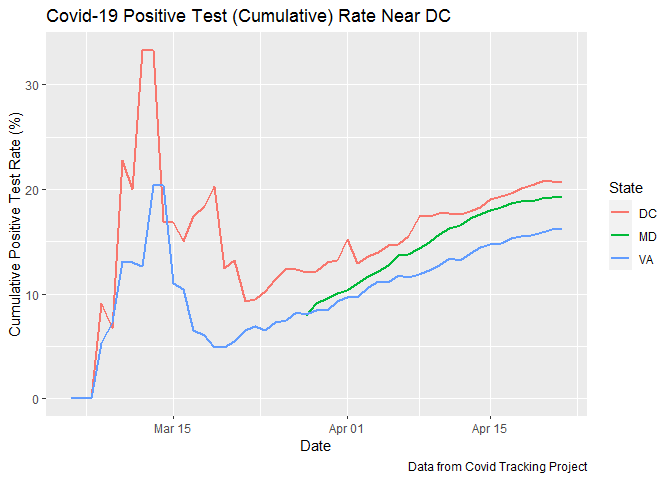
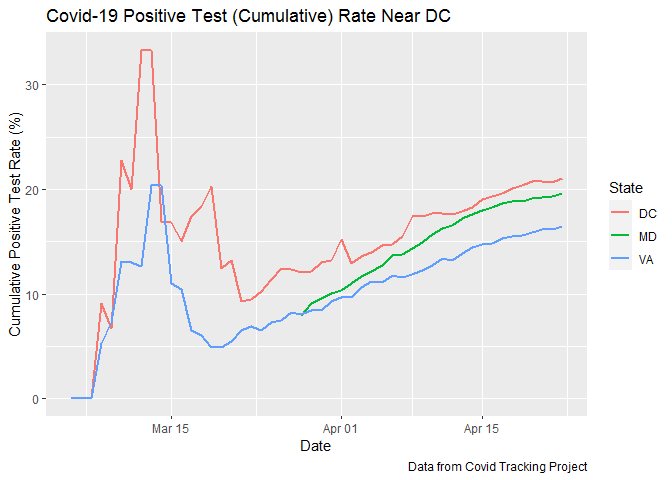
23 April evening data update

diff --git a/Markdown/Pos_Test_Rate.md b/Markdown/Pos_Test_Rate.md
@@ -1,7 +1,7 @@
 Positive Covid-19 Test Rate Increases Around DC
 ================
 
-2020-04-23 11:41:54
+2020-04-23 20:17:50
 
 The number of Covid-19 tests conducted in the DC area increased
 considerably through the first part of April and has generally plateaued
@@ -19,15 +19,15 @@ it doesn’t show abnormal spikes in late March.
 Despite plateauing or decreasing numbers of tests in the area, the
 cumulative positive test rate has increased over time since the rates
 spiked in mid-March, when fewer Covid-19 tests were being conducted.
-Right now, the cumulate positive rate in DC is 20.7%, the rate in
-Maryland is 19.3%, and the rate in Virginia is 16.2%.
+Right now, the cumulate positive rate in DC is 21.1%, the rate in
+Maryland is 19.6%, and the rate in Virginia is 16.5%.
 
 ![](Pos_Test_Rate_files/figure-gfm/pos_rate_cumulative-1.png)<!-- -->
 
 The recent increases in positive test rates are more pronounced when
 displayed as recent, rather than cumulative, averages. The average
-positive test rate between 2020-04-20 and 2020-04-22 was 22.9% in DC,
-22.5% in Maryland, and 25.2% in Virginia.  
+positive test rate between 2020-04-20 and 2020-04-22 was 23.9% in DC,
+23.6% in Maryland, and 21% in Virginia.  
 \` ![](Pos_Test_Rate_files/figure-gfm/rolling_pos_rate-1.png)<!-- -->
 
 New York state has generally had the highest testing rate of any state,
